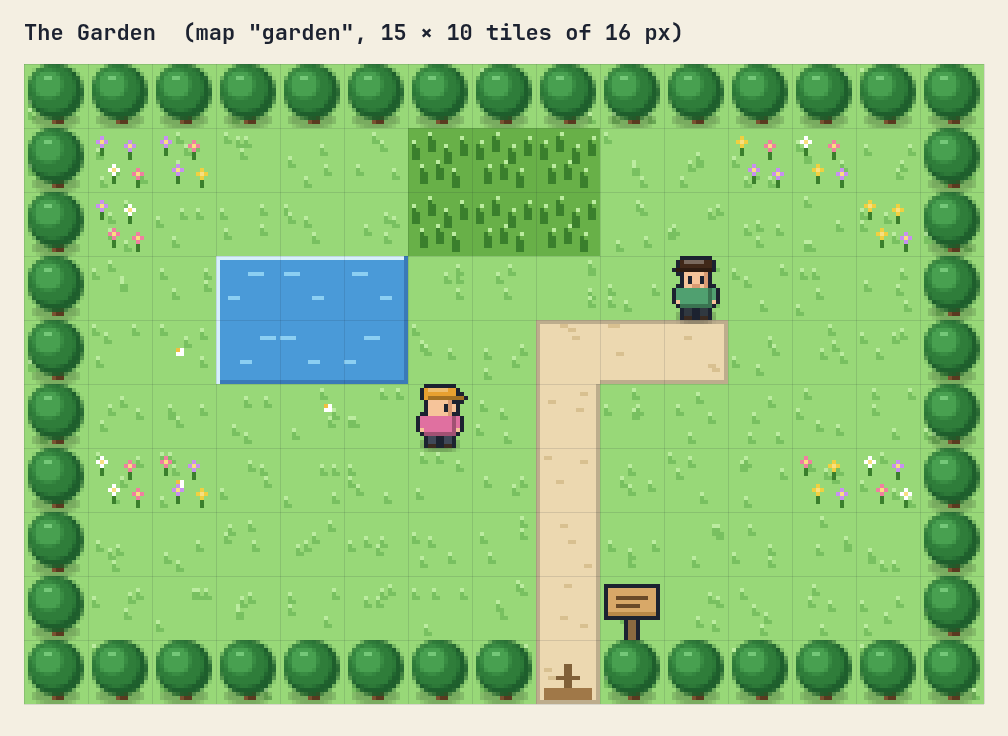
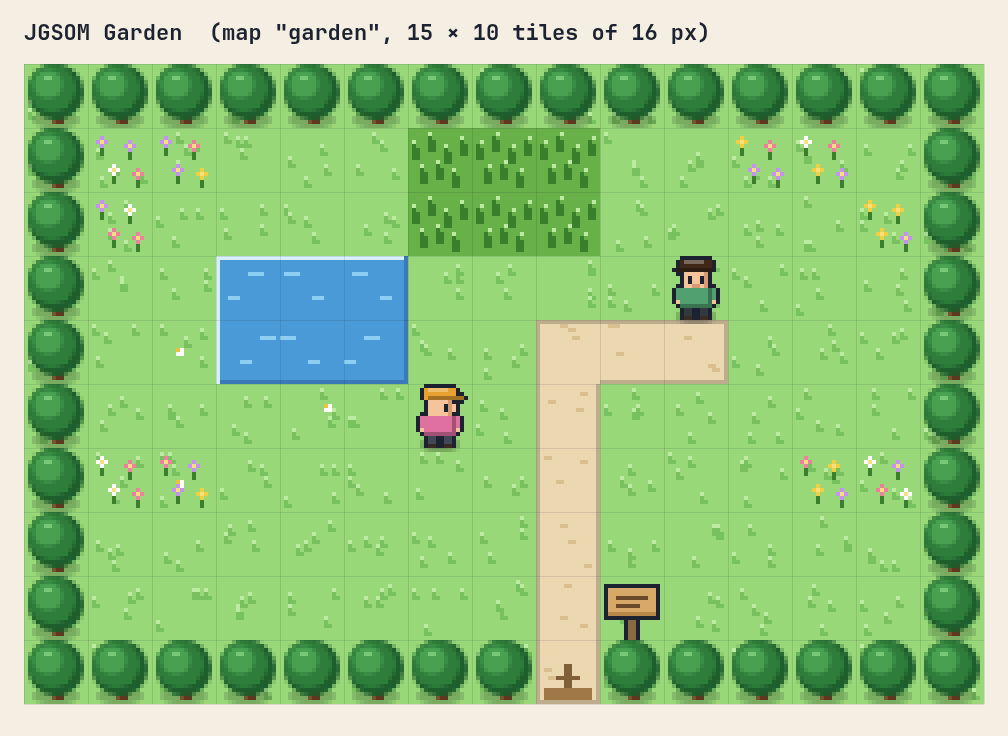
Set the game at the Ateneo and rename the side characters
Places become Ateneo spots (JGSOM Garden, Leong Hive, the Golden Arete,
the Math Department, a JSEC stall, the Ikot jeep), and the rival,
townspeople, and students get new names and lines. Art PNGs re-exported.

Changed region(s): [[0.0308, 0.0312, 0.7073, 0.0625]]

diff --git a/game/js/content.js b/game/js/content.js
@@ -33,7 +33,7 @@ export function playerLook() {
   return G.goldHat ? { ...c.look, hat: GOLD_HAT } : c.look;
 }
 export const RIVAL = {
-  label: "RIVAL JAMIE", look: { hat: "#5040a0", shirt: "#40a0a0", pants: "#283040" },
+  label: "RIVAL XANDER", look: { hat: "#5040a0", shirt: "#40a0a0", pants: "#283040" },
   intro: ["Hey! I've been collecting patterns too. Bet my notebook beats yours!",
           "Back again? I practiced my tiling all week. Let's go!",
           "Last time, for real. Fibonacci won't save you!"],
@@ -45,30 +45,30 @@ const student = (id, map, x, y, face, sight, level, step, name, lk, intro, lose)
 
 export const PEOPLE = [
   { id: "durwin", map: "lab", x: 8, y: 3, face: "down", look: DURWIN },
-  { id: "lola", map: "town", x: 3, y: 5, face: "right", look: look("#e8e8e8", "#a050a0", "#504060") },
-  { id: "beekeeper", map: "town", x: 10, y: 7, face: "left", look: look("#f0f0e0", "#f0b030", "#604020") },
+  { id: "riona", map: "town", x: 3, y: 5, face: "right", look: look("#e8e8e8", "#a050a0", "#504060") },
+  { id: "ennio", map: "town", x: 10, y: 7, face: "left", look: look("#f0f0e0", "#f0b030", "#604020") },
   { id: "rival", map: "town", x: 9, y: 4, face: "left", sight: 1, look: RIVAL.look },
-  student("mia", "garden", 6, 5, "right", 2, 0, 0, "MIA", look("#e8a030", "#e070a0", "#404858"),
-    "I'm counting rabbit pairs for my project. Help me guess month 6?", "One, one, two, three, five, eight. Got it!"),
-  student("leo", "garden", 10, 3, "down", 1, 0, 1, "LEO", look("#402818", "#50a070", "#303840"),
-    "Count the spirals on my flower. What comes next?", "Twenty-one, thirty-four, fifty-five. Nice!"),
-  student("ana", "hive", 6, 5, "right", 2, 1, 0, "ANA", look("#202020", "#f0d040", "#5a4630"),
-    "My floor has a gap in it. Which tile fixes it?", "No gaps, no overlaps. Nice!"),
-  student("raf", "hive", 10, 3, "down", 1, 1, 1, "RAF", look("#704020", "#d05030", "#303840"),
-    "The bees told me a secret about angles. Do you know it?", "Buzz! You cracked the honeycomb."),
-  student("joy", "field", 6, 5, "right", 2, 2, 0, "JOY", look("#f0d060", "#60a0e0", "#404858"),
-    "Let's divide some Fibonacci numbers. Ready?", "1.618... I'll never forget it now."),
-  student("kit", "field", 10, 3, "down", 1, 2, 1, "KIT", look("#303030", "#a060c0", "#5a4630"),
-    "I saw a video that says the golden ratio is the secret of beauty. True?", "Okay, I'll stop drawing rectangles on everything."),
+  student("callie", "garden", 6, 5, "right", 2, 0, 0, "CALLIE", look("#e8a030", "#e070a0", "#404858"),
+    "I'm modelling rabbit growth for my JGSOM case study. Help me forecast month 6?", "Eight pairs! My professor will love this projection."),
+  student("toby", "garden", 10, 3, "down", 1, 0, 1, "TOBY", look("#402818", "#50a070", "#303840"),
+    "I was supposed to be studying, but these flower spirals are more interesting. What comes next?", "Twenty-one, thirty-four, fifty-five. Nice!"),
+  student("chloe", "hive", 6, 5, "right", 2, 1, 0, "CHLOE", look("#202020", "#f0d040", "#5a4630"),
+    "Facilities asked me to retile Leong. Which tile leaves no gaps?", "No gaps, no overlaps. Nice!"),
+  student("ethan", "hive", 10, 3, "down", 1, 1, 1, "ETHAN", look("#704020", "#d05030", "#303840"),
+    "The bees here pay no rent, but they do know their angles. Do you?", "Buzz! You cracked the honeycomb."),
+  student("pau", "field", 6, 5, "right", 2, 2, 0, "PAU", look("#f0d060", "#60a0e0", "#404858"),
+    "Art majors love this number. Let's divide some Fibonacci numbers!", "1.618... I'm putting that in my next painting."),
+  student("zach", "field", 10, 3, "down", 1, 2, 1, "ZACH", look("#303030", "#a060c0", "#5a4630"),
+    "My org's pubs say the golden ratio is the secret of beauty. True?", "Okay, I'll stop drawing rectangles on everyone's faces."),
 ];
-const SPEAKERS = { "SIR DURWIN": DURWIN, LOLA: PEOPLE[1].look, BEEKEEPER: PEOPLE[2].look, TINDERA: look("#402818", "#e06080", "#304060"),
+const SPEAKERS = { "SIR DURWIN": DURWIN, RIONA: PEOPLE[1].look, ENNIO: PEOPLE[2].look, VENICE: look("#402818", "#e06080", "#304060"),
   [RIVAL.label]: RIVAL.look, ...Object.fromEntries(PEOPLE.filter((p) => p.student).map((p) => [`STUDENT ${p.student.name}`, p.look])) };
 export const speakerLook = (label) => (CHARS[label] ? CHARS[label].look : SPEAKERS[label]);
 
 // ---------- maps ----------
 // 15 × 10 tiles of 16 px = 240 × 160, the GBA screen size.
 // Outdoors: T tree · . grass · , tall grass (wild patterns) · = path · I sign · G V S Level entrances · L D lab and its door
-//           X sari-sari store · J jeepney · Q q a Level's big (blocking) and small (walkable) decorations · E exit
+//           X JSEC food stall · J Ikot jeep · Q q a Level's big (blocking) and small (walkable) decorations · E exit
 // Indoors:  W wall · K bookshelf · A window · O floor · B table · R rug · E exit mat
 const LEVEL_ROWS = [
   "TTTTTTTTTTTTTTT",
@@ -86,7 +86,7 @@ const levelMap = (name, level, townX, sign) => ({ name, level, pal: ["garden", "
   warps: { "8,9": { to: "town", x: townX, y: 2, dir: "down" } }, signs: { "9,8": sign } });
 export const MAPS = {
   town: {
-    name: "Barangay Maligaya", pal: "town",
+    name: "Ateneo de Manila", pal: "town",
     rows: [
       "TTTTTTTTTTTTTTT",
       "T..G....V....ST",
@@ -101,11 +101,11 @@ export const MAPS = {
     ],
     warps: { "3,1": { to: "garden", x: 8, y: 8, dir: "up", level: 0 }, "8,1": { to: "hive", x: 8, y: 8, dir: "up", level: 1 },
              "13,1": { to: "field", x: 8, y: 8, dir: "up", level: 2 }, "5,7": { to: "lab", x: 7, y: 7, dir: "up" } },
-    signs: { "7,4": "BARANGAY MALIGAYA. Field Station ↓ · Levels ↑ · Mabuhay!",
-             "9,2": "← THE GARDEN · THE BEEHIVE ↑ · THE SUNFLOWER FIELD →" },
+    signs: { "7,4": "ATENEO DE MANILA. Math Department ↓ · Levels ↑ · One Big Fight!",
+             "9,2": "← JGSOM GARDEN · LEONG HIVE ↑ · THE GOLDEN ARETE →" },
   },
   lab: {
-    name: "Field Station", pal: "lab",
+    name: "Math Department", pal: "lab",
     rows: [
       "WWWWWWWWWWWWWWW",
       "WKKKKAAAAAKKKKW",
@@ -121,9 +121,9 @@ export const MAPS = {
     warps: { "7,8": { to: "town", x: 5, y: 8, dir: "down" }, "8,8": { to: "town", x: 5, y: 8, dir: "down" } },
     signs: {},
   },
-  garden: levelMap("The Garden", 0, 3, "THE GARDEN. Count the rabbits, then count the petals."),
-  hive: levelMap("The Beehive", 1, 8, "THE BEEHIVE. Count the corners where the cells meet."),
-  field: levelMap("The Sunflower Field", 2, 13, "THE SUNFLOWER FIELD. Divide, then check the claim."),
+  garden: levelMap("JGSOM Garden", 0, 3, "JGSOM GARDEN. Even the rabbits here understand compound growth."),
+  hive: levelMap("Leong Hive", 1, 8, "LEONG HIVE. Formerly Leong Hall. The bees signed the lease first."),
+  field: levelMap("The Golden Arete", 2, 13, "THE GOLDEN ARETE. Home of the arts, and of people who draw golden rectangles on everything."),
 };
 export const HOME = { map: "lab", x: 8, y: 4, dir: "up" }; // right in front of Sir Durwin
 export const SIGN_COUNT = Object.values(MAPS).reduce((n, m) => n + Object.keys(m.signs).length, 0);
@@ -138,9 +138,9 @@ export const FACTS = [
 
 // ---------- dialogue ----------
 export const INTRO_LINES = [
-  "SIR DURWIN: Ah, you're here! Welcome to the Field Station of Barangay Maligaya.",
+  "SIR DURWIN: Ah, you're here! Welcome to the Math Department of the Ateneo.",
   "SIR DURWIN: I'm SIR DURWIN, but people call me the Pattern Professor.",
-  "SIR DURWIN: Something strange is happening. The barangay's patterns are getting scrambled!",
+  "SIR DURWIN: Something strange is happening. The campus's patterns are getting scrambled!",
   "SIR DURWIN: Rabbit counts that don't add up, floors full of gaps, golden rectangles drawn on everything...",
   "SIR DURWIN: Now, which of my three assistant Researchers is reporting for duty today?",
 ];
@@ -153,28 +153,28 @@ export const startLines = (name) => [
 ];
 export const TALK = {
   durwin: [
-    ["SIR DURWIN: Two students are waiting in the Garden, up the path to the west.", "SIR DURWIN: Win both pattern battles to earn the Fibonacci Badge!"],
-    ["SIR DURWIN: Splendid! The Garden's patterns are back. Two more students wait at the Beehive, straight north."],
-    ["SIR DURWIN: Two badges already! The last students are in the Sunflower Field to the north-east."],
+    ["SIR DURWIN: Two students are waiting in the JGSOM Garden, up the path to the west.", "SIR DURWIN: Win both pattern battles to earn the Fibonacci Badge!"],
+    ["SIR DURWIN: Splendid! The Garden's patterns are back. Two more students wait at Leong Hive, straight north."],
+    ["SIR DURWIN: Two badges already! The last students are at the Golden Arete to the north-east."],
   ],
-  lola: [
-    ["LOLA: Magandang araw, anak! My rabbits multiply so fast. Each month is the last two added together!"],
-    ["LOLA: The bees never leave gaps. Count the corners where their cells meet."],
-    ["LOLA: Some say the golden ratio is the secret of beauty. Hmp! Check the claim before you believe it."],
-    ["LOLA: Salamat, anak. The barangay's patterns look right again!"],
+  riona: [
+    ["RIONA: My blockmate's pet rabbits multiply so fast. Each month is the last two months added together!"],
+    ["RIONA: The bees at Leong never leave gaps. Count the corners where their cells meet."],
+    ["RIONA: Some say the golden ratio is the secret of beauty. Check the claim before you believe it."],
+    ["RIONA: The campus patterns look right again. Gonzaga run to celebrate?"],
   ],
-  beekeeper: [
-    ["BEEKEEPER: The Garden students are counting rabbits and petals."],
-    ["BEEKEEPER: My bees fit three cells around every corner. Neat, huh?"],
-    ["BEEKEEPER: Thanks for unscrambling the hive! The sunflower field is all about 1.618."],
-    ["BEEKEEPER: Thanks for unscrambling the hive!"],
+  ennio: [
+    ["ENNIO: The JGSOM Garden people are counting rabbits. Very on-brand: it's all about growth."],
+    ["ENNIO: I'm a Bio major. I look after the bees at Leong. They fit three cells around every corner!"],
+    ["ENNIO: Thanks for unscrambling the hive! Over at Arete, it's all about 1.618."],
+    ["ENNIO: Thanks for unscrambling the hive!"],
   ],
 };
 export const STORE_LINES = {
-  first: ["TINDERA: Magandang araw! Welcome to the sari-sari store.", "TINDERA: Here, take a HINT POTION. Libre na! (It's free!)"],
-  later: ["TINDERA: Ingat! Take care out there."],
+  first: ["VENICE: Welcome to JSEC! The lunch rush is over, so I'm feeling generous.", "VENICE: Here, take a HINT POTION. Libre na! (It's free!)"],
+  later: ["VENICE: Ingat! And don't skip lunch."],
 };
-export const JEEP_LINES = ["A jeepney is parked here. Its sign says MALIGAYA – BAYAN."];
+export const JEEP_LINES = ["The IKOT jeep is parked here. It goes around campus forever, like a loop with no end condition."];
 export const ENDING_LINES = ["Five plus three makes eight pairs. Well counted!", "Twenty-one plus thirty-four!", "No gaps, no overlaps.",
   "Three corners, 360 degrees.", "The golden ratio, about 1.618.", "And a claim checked, not just believed.", "And the big picture: patterns follow rules."];
 
@@ -194,7 +194,7 @@ export const ACHIEVEMENTS = {
   perfectSite: ["Perfect Level", "Get both Steps right on the first try at one Level."],
   reader: ["Bookworm", "Read every sign."],
   explorer: ["Explorer", "Find all four hidden notes."],
-  rival: ["Rival rumble", "Beat Jamie three times."],
+  rival: ["Rival rumble", "Beat Xander three times."],
   wild: ["Into the grass", "Win five wild battles."],
   speed: ["Quick thinker", "Score 8 or more in a speed battle."],
   unshaken: ["Unshaken", "Finish the game without blacking out."],

diff --git a/game/js/ui.js b/game/js/ui.js
@@ -95,7 +95,7 @@ export function title() {
   document.body.classList.toggle("big", settings.bigText); updateMute(); playMusic("title");
   const saves = [...Array(SLOTS).keys()].map(readSlot);
   page(`<div class="page title"><canvas class="tsun" width="360" height="180" aria-hidden="true"></canvas><h1>Pattern Detectives</h1>
-    <p>A pattern-finding adventure in Barangay Maligaya</p>
+    <p>A pattern-finding adventure at the Ateneo</p>
     <div class="row"><button id="new">New game</button>${saves.some(Boolean) ? '<button id="cont">Continue</button>' : ""}<button id="speed">Speed battle</button></div>
     <div class="row small"><button id="demo">Demo mode</button><button id="ach">Achievements</button><button id="ctrl">Controls</button><button id="sets">Settings</button><button id="stats">Playtest data</button></div></div>`);
   runAnim(pageEl.querySelector(".tsun"), "title");
@@ -187,8 +187,8 @@ export function badgeCase(back = toMap) {
 }
 export function townMap(back = toMap) {
   const where = { lab: [5, 7], garden: [3, 1], hive: [8, 1], field: [13, 1] }[S.map] || [S.px, S.py];
-  page(`<div class="page note"><div class="proto">Town map</div><h2>Barangay Maligaya</h2>
-    <canvas class="townmap" width="240" height="160" role="img" aria-label="Map of Barangay Maligaya"></canvas>
+  page(`<div class="page note"><div class="proto">Town map</div><h2>Ateneo de Manila</h2>
+    <canvas class="townmap" width="240" height="160" role="img" aria-label="Map of the Ateneo campus"></canvas>
     <p>You are in <b>${MAPS[S.map].name}</b> (the red circle).</p>
     <ul>${LEVELS.slice(0, 3).map((l, i) => `<li>${l.name}: ${i < S.badges ? `restored ${stars(i)}` : i === S.badges ? "next" : "locked"}</li>`).join("")}</ul>${closeRow()}</div>`);
   const c = pageEl.querySelector(".townmap").getContext("2d");
@@ -248,7 +248,7 @@ export function playtestPage(back = title) { // numbers for the progress report,
   wireBack(back);
 }
 function demo() { // for the live presentation: start at any Level with the earlier badges already earned
-  const spots = [["The Garden", 0, "garden", 8, 8], ["The Beehive", 1, "hive", 8, 8], ["The Sunflower Field", 2, "field", 8, 8], ["Final battle", 3, "lab", 8, 4]];
+  const spots = [["JGSOM Garden", 0, "garden", 8, 8], ["Leong Hive", 1, "hive", 8, 8], ["The Golden Arete", 2, "field", 8, 8], ["Final battle", 3, "lab", 8, 4]];
   page(`<div class="page title"><h1>Demo mode</h1><p>Jump straight to a Level as CHIPPY. Earlier badges are given to you, and nothing is saved.</p>
     <div class="row">${spots.map(([n], i) => `<button data-i="${i}">${n}</button>`).join("")}</div>${closeRow("Back")}</div>`);
   pageEl.querySelectorAll("button[data-i]").forEach((b) => (b.onclick = () => {

diff --git a/game/js/draw.js b/game/js/draw.js
@@ -183,7 +183,7 @@ export function drawLab(c, X, Y) { // 3 × 2 tiles with the door in the middle o
   px(c, OUTLINE, X + 18, Y + 19, 12, 13); px(c, "#6b4a2a", X + 19, Y + 20, 10, 12); px(c, "#8a6040", X + 19, Y + 20, 10, 1); px(c, "#f0c040", X + 26, Y + 26, 1, 1);
   px(c, OUTLINE, X + 15, Y + 13, 18, 7); px(c, "#2850a0", X + 16, Y + 14, 16, 5); word(c, "LAB", X + 19, Y + 14, "#ffffff");
 }
-export function drawStore(c, X, Y) { // the sari-sari store, 2 × 2 tiles, with snacks hanging in the window
+export function drawStore(c, X, Y) { // the JSEC food stall, 2 × 2 tiles, with snacks hanging in the window
   oval(c, X + 16, Y + 31, 17, 3, "rgba(0,0,0,.2)");
   px(c, OUTLINE, X, Y + 8, 32, 24); px(c, "#c89858", X + 1, Y + 9, 30, 22);
   for (let r = 0; r < 7; r++) px(c, "#b07e44", X + 1, Y + 11 + r * 3, 30, 1); // planks
@@ -195,7 +195,7 @@ export function drawStore(c, X, Y) { // the sari-sari store, 2 × 2 tiles, with 
   for (let i = 0; i < 9; i++) px(c, i % 2 ? "#f8f8f0" : "#e04848", X - 1 + i * 4, Y + 1, 4, 7); // striped awning
   for (let i = 0; i < 9; i++) px(c, i % 2 ? "#f8f8f0" : "#e04848", X - 1 + i * 4 + 1, Y + 8, 2, 2); // scalloped edge
 }
-export function drawJeep(c, X, Y) { // a jeepney, 2 × 1 tiles
+export function drawJeep(c, X, Y) { // the Ikot jeep, 2 × 1 tiles
   oval(c, X + 16, Y + 15, 15, 2, "rgba(0,0,0,.25)");
   px(c, OUTLINE, X, Y + 1, 32, 12);
   px(c, "#d8dce4", X + 1, Y + 2, 30, 10); px(c, "#f4f6f8", X + 1, Y + 2, 30, 1);
@@ -208,10 +208,10 @@ export function drawJeep(c, X, Y) { // a jeepney, 2 × 1 tiles
 
 // ---------- battle backgrounds ----------
 const SCENES = [
-  { sky: ["#8fd3f4", "#d8f2fb"], far: "#86c890", ground: "#a8d880", top: "#c4e8a0", rim: "#6aa848" }, // the Garden
-  { sky: ["#f6c870", "#fdf0c8"], far: "#e0b050", ground: "#e8cf78", top: "#f6e4a0", rim: "#b8902c" }, // the Beehive
-  { sky: ["#9ad8f0", "#eaf7fc"], far: "#9cc850", ground: "#cfe08a", top: "#e2f0a8", rim: "#94b040" }, // the Sunflower Field
-  { sky: ["#c8b898", "#e8e0d0"], far: "#8a7a68", ground: "#d8c8a8", top: "#e8dcc0", rim: "#b0a080" }, // the Field Station
+  { sky: ["#8fd3f4", "#d8f2fb"], far: "#86c890", ground: "#a8d880", top: "#c4e8a0", rim: "#6aa848" }, // JGSOM Garden
+  { sky: ["#f6c870", "#fdf0c8"], far: "#e0b050", ground: "#e8cf78", top: "#f6e4a0", rim: "#b8902c" }, // Leong Hive
+  { sky: ["#9ad8f0", "#eaf7fc"], far: "#9cc850", ground: "#cfe08a", top: "#e2f0a8", rim: "#94b040" }, // the Golden Arete
+  { sky: ["#c8b898", "#e8e0d0"], far: "#8a7a68", ground: "#d8c8a8", top: "#e8dcc0", rim: "#b0a080" }, // the Math Department
 ];
 export function drawBattleBg(c, w, h, level) {
   const s = SCENES[Math.min(level, 3)], horizon = h * 0.52, indoor = level >= 3;

diff --git a/game/js/world.js b/game/js/world.js
@@ -12,7 +12,7 @@ export const FACING = { up: [0, -1], down: [0, 1], left: [-1, 0], right: [1, 0] 
 const WALK = new Set([".", ",", "=", "q", "O", "R", "E"]);
 
 const tileAt = (map, x, y) => MAPS[map].rows[y]?.[x] ?? "T";
-const rivalHere = () => S.rivalWins < Math.min(S.badges, 3); // Jamie shows up once after each badge
+const rivalHere = () => S.rivalWins < Math.min(S.badges, 3); // Xander shows up once after each badge
 const peopleOn = (map) => PEOPLE.filter((p) => p.map === map && (p.id !== "rival" || rivalHere()));
 const personAt = (x, y) => peopleOn(S.map).find((p) => p.x === x && p.y === y);
 const warpAt = (x, y) => MAPS[S.map].warps[`${x},${y}`];
@@ -95,7 +95,7 @@ export function goHome() { S.busy = true; fade(() => { goTo(HOME); S.busy = fals
 
 // ---------- people and things ----------
 const ready = (p) => (p.student ? !beaten(p.student.level, p.student.step) && p.student.level <= S.badges : p.id === "rival");
-function spot() { // a student or Jamie who sees you along their line of sight walks over for a battle
+function spot() { // a student or Xander who sees you along their line of sight walks over for a battle
   for (const p of peopleOn(S.map)) {
     if (!p.sight || !ready(p)) continue;
     const [dx, dy] = FACING[p.face];

diff --git a/scripts/art-sheet.html b/scripts/art-sheet.html
@@ -33,10 +33,10 @@ if (q.get("sheet") === "map") {
   const cast = [
     ...Object.entries(CHARS).map(([n, c]) => [n, c.look, "Researcher (playable)"]),
     ["SIR DURWIN", DURWIN, "Pattern Professor"],
-    ["JAMIE", RIVAL.look, "Rival"],
+    ["XANDER", RIVAL.look, "Rival"],
     ...PEOPLE.filter((p) => p.student).map((p) => [p.student.name, p.look, "Student"]),
-    ["LOLA", PEOPLE.find((p) => p.id === "lola").look, "Townsperson"],
-    ["BEEKEEPER", PEOPLE.find((p) => p.id === "beekeeper").look, "Townsperson"],
+    ["RIONA", PEOPLE.find((p) => p.id === "riona").look, "Student"],
+    ["ENNIO", PEOPLE.find((p) => p.id === "ennio").look, "Bio major, keeps the bees"],
   ];
   const left = 260;
   out.width = left + dirs.length * 3 * cell + 24; out.height = 110 + cast.length * (cell + 8);

diff --git a/game/js/battle.js b/game/js/battle.js
@@ -51,7 +51,7 @@ function levelDone(level) {
   show("map"); SFX.badge();
   say([`${S.name} earned the ${BADGES[level]}!`, `${LEVELS[level].name}: ${stars(level)} (${firsts} of ${steps} on the first try)`,
        `The patterns of ${LEVELS[level].name} are back in order!`], () =>
-    choice(S.badges === 3 ? "All three badges! Hurry back to SIR DURWIN?" : "Hurry back to the Field Station?", ["Yes", "No"], (i) => { if (i === 0) goHome(); }));
+    choice(S.badges === 3 ? "All three badges! Hurry back to SIR DURWIN?" : "Hurry back to the Math Department?", ["Yes", "No"], (i) => { if (i === 0) goHome(); }));
 }
 
 // ---------- the battle itself ----------

diff --git a/README.md b/README.md
@@ -2,13 +2,13 @@
 
 A short single-player puzzle game about **mathematics as a science of patterns**, made for **MATH 10 Mathematics in the Modern World** (Section M2, 1st Semester SY 2026–2027).
 
-It plays like an old Game Boy Advance Pokémon game. The player is an assistant Researcher (Chippy, Bryce, or Joshua) sent by Sir Durwin, the Pattern Professor, to restore the scrambled patterns of Barangay Maligaya. Students at each Level challenge them to Battles, where the pattern is the opponent and the answers are the moves. After every win, an Explanation shows the reasoning, so the player learns the mathematics behind each pattern while playing. With all three Badges, the Researcher works out what the three patterns have in common.
+It plays like an old Game Boy Advance Pokémon game. The player is an assistant Researcher (Chippy, Bryce, or Joshua) sent by Sir Durwin, the Pattern Professor, to restore the scrambled patterns of the Ateneo campus. Students at each Level challenge them to Battles, where the pattern is the opponent and the answers are the moves. After every win, an Explanation shows the reasoning, so the player learns the mathematics behind each pattern while playing. With all three Badges, the Researcher works out what the three patterns have in common.
 
 | Level | Setting | Mathematics |
 | --- | --- | --- |
-| 1. The Garden | Fibonacci's rabbits and flower spirals | The Fibonacci sequence and where it shows up in nature |
-| 2. The Beehive | Honeycomb | Tessellations, and why hexagons fit (3 × 120° = 360°) |
-| 3. The Sunflower Field | The golden ratio | Fibonacci ratios approaching φ ≈ 1.618, and checking golden-ratio "beauty" claims |
+| 1. JGSOM Garden | Fibonacci's rabbits and flower spirals | The Fibonacci sequence and where it shows up in nature |
+| 2. Leong Hive | Honeycomb | Tessellations, and why hexagons fit (3 × 120° = 360°) |
+| 3. The Golden Arete | The golden ratio | Fibonacci ratios approaching φ ≈ 1.618, and checking golden-ratio "beauty" claims |
 
 The topics follow Module 1 (Mathematics in the World) of the course, and the Hints follow Polya's four steps from Module 3.
 

diff --git a/docs/art/README.md b/docs/art/README.md
@@ -5,6 +5,6 @@ PNG exports of the game's maps and character sprites. The art itself is drawn in
 | File | What it shows |
 | --- | --- |
 | `characters.png` | Every character, in all four directions, standing and in both walking frames (16 × 16 px, shown 6×) |
-| `map-town.png` | Barangay Maligaya, the hub town |
-| `map-lab.png` | The Field Station, inside |
+| `map-town.png` | The Ateneo campus, the hub |
+| `map-lab.png` | The Math Department, inside |
 | `map-garden.png`, `map-hive.png`, `map-field.png` | The three Levels |
